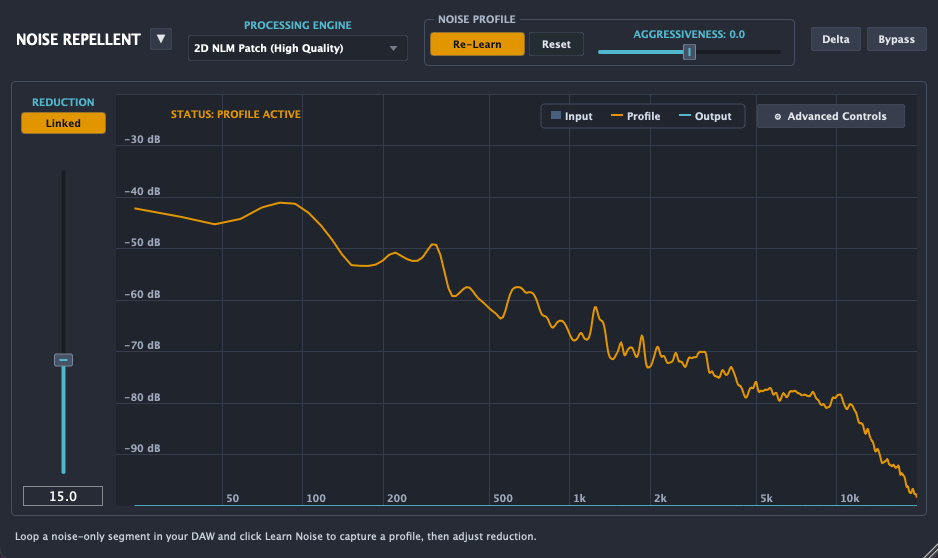
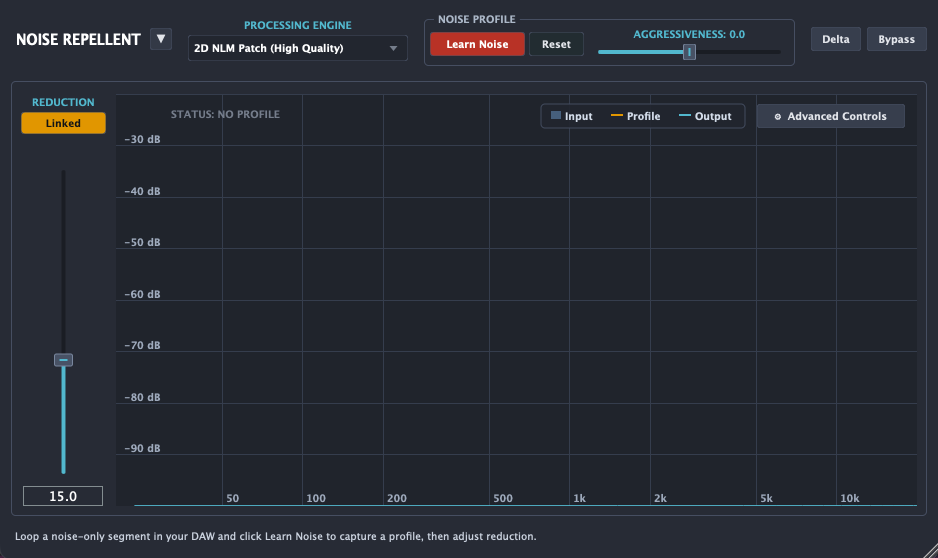
chore: bump version to 0.3.1 and update installer paths and documentation

diff --git a/README.md b/README.md
@@ -63,10 +63,10 @@ Pre-built installers and packages for Linux, macOS, and Windows are available on
 ### 🐧 Linux (x86_64)
 
 #### Debian / Ubuntu / Linux Mint / Pop!_OS
-1. Download `noise-repellent_3.0.0_amd64.deb`.
+1. Download `noise-repellent_0.3.1_amd64.deb`.
 2. Install via software center or terminal:
    ```bash
-   sudo apt install ./noise-repellent_3.0.0_amd64.deb
+   sudo apt install ./noise-repellent_0.3.1_amd64.deb
 
 #### Other Linux Distributions
 1. Download `noise-repellent-linux-x86_64.tar.gz`

diff --git a/CHANGELOG.md b/CHANGELOG.md
@@ -2,7 +2,7 @@
 
 All notable changes to this project will be documented in this file.
 
-## [3.0.0] - 2026-07-31
+## [0.3.1] - 2026-08-08
 
 ### Changed
 - **Major Architecture Migration**: Migrated plugin framework from legacy LV2 C implementation to modern C++ framework using JUCE 8.
